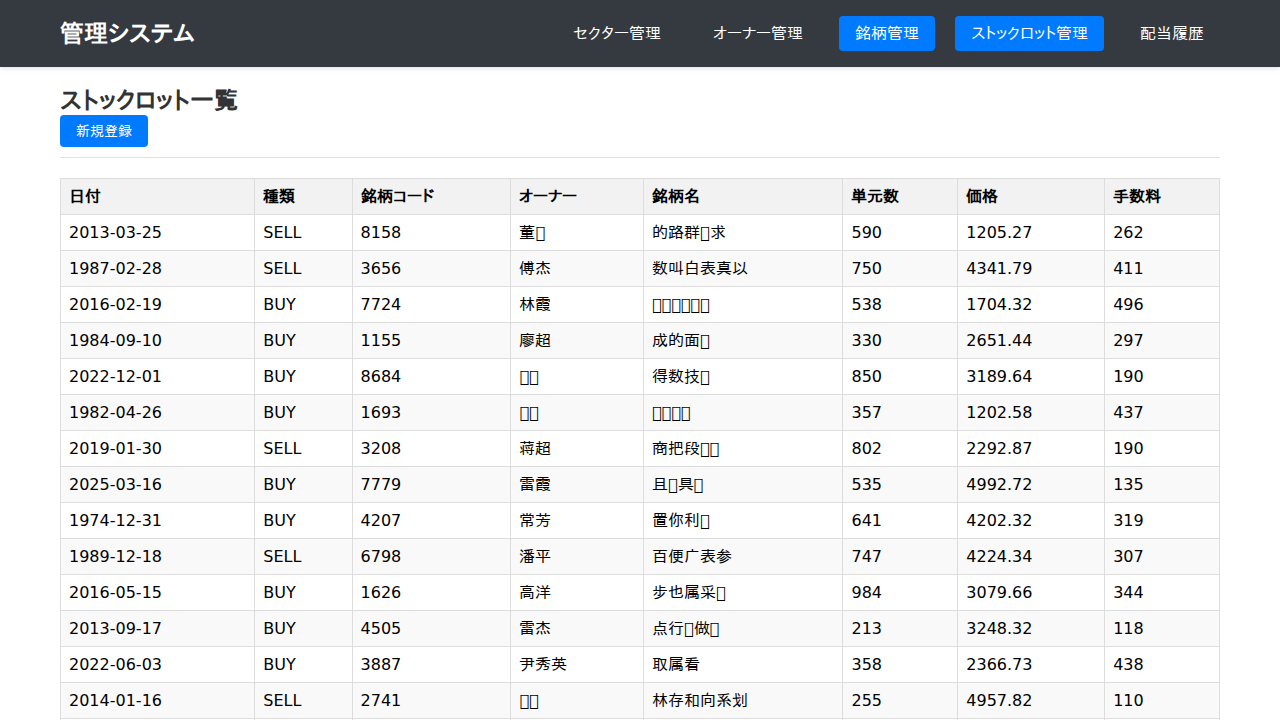
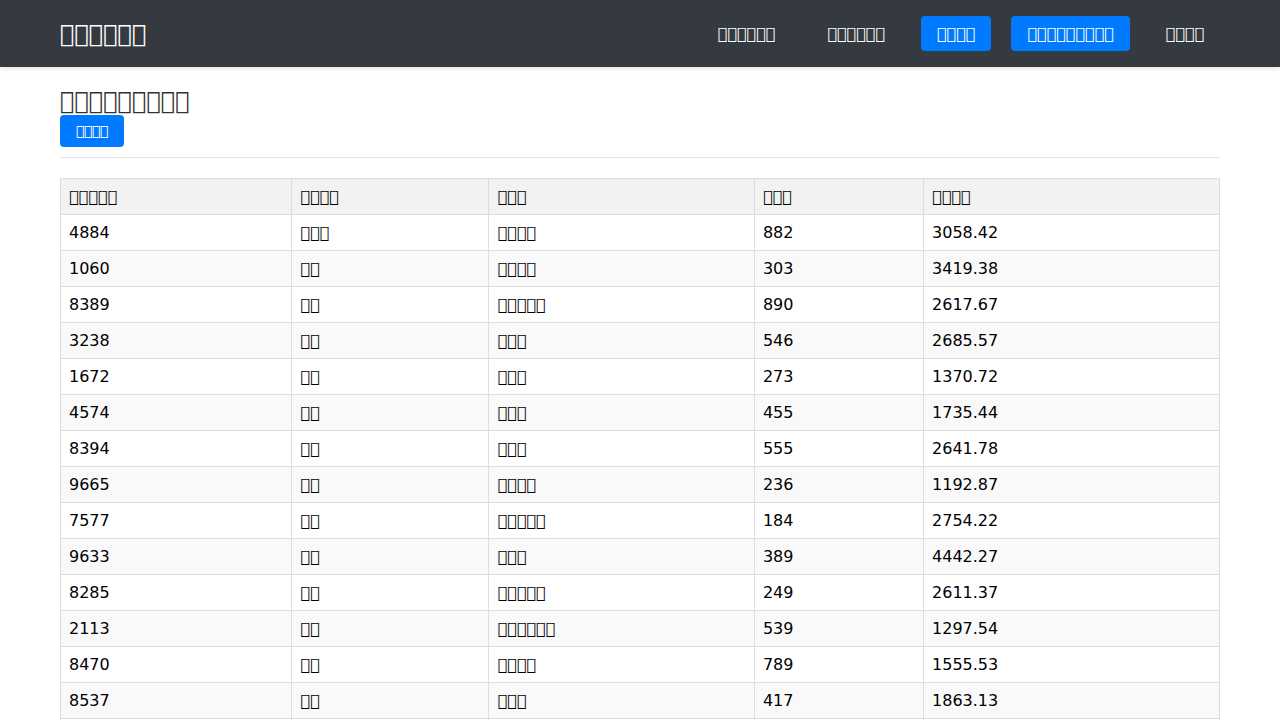
fix: Resolve 500 error and align frontend with backend DTOs
This commit provides a comprehensive fix for the stock lot feature, addressing a 500 error during lot creation and subsequent display issues in the stock lot list.

Backend:
- Resolved a JSON serialization issue by introducing DTOs (`StockLotResponseDto`, `OwnerDto`, `StockDto`) for API responses, preventing the 500 error.
- The `StockLotController` now returns these DTOs instead of JPA entities for all endpoints (`/api/stocklot`, `/api/stocklot/{id}`, and `/api/stocklot/add`).
- Enhanced `StockDto` to include `currentPrice`.
- Updated and expanded `StockLotControllerTest` to validate the new DTO responses.

Frontend:
- Modified `frontend/src/views/stocklot/templates/List.html` to correctly render the data from the `StockLotResponseDto`, fixing the list view.
- Updated `frontend/mock/stocklot.js` to provide mock data that matches the new DTO structure, ensuring frontend tests and development can proceed correctly.

diff --git a/backend/modules/web/src/test/kotlin/com/example/stock/StockLotControllerTest.kt b/backend/modules/web/src/test/kotlin/com/example/stock/StockLotControllerTest.kt
@@ -4,7 +4,6 @@ import com.example.stock.dto.StockLotAddDto
 import com.example.stock.model.Owner
 import com.example.stock.model.Stock
 import com.example.stock.model.StockLot
-import com.example.stock.model.BuyTransaction
 import com.example.stock.service.OwnerService
 import com.example.stock.service.StockLotService
 import com.example.stock.service.StockService
@@ -17,11 +16,13 @@ import org.springframework.boot.test.autoconfigure.web.servlet.WebMvcTest
 import org.springframework.boot.test.mock.mockito.MockBean
 import org.springframework.http.MediaType
 import org.springframework.test.web.servlet.MockMvc
+import org.springframework.test.web.servlet.request.MockMvcRequestBuilders.get
 import org.springframework.test.web.servlet.request.MockMvcRequestBuilders.post
-import org.springframework.test.web.servlet.result.MockMvcResultMatchers.status
 import org.springframework.test.web.servlet.result.MockMvcResultMatchers.jsonPath
+import org.springframework.test.web.servlet.result.MockMvcResultMatchers.status
 import java.math.BigDecimal
 import java.time.LocalDate
+import java.util.Optional
 
 @WebMvcTest(StockLotController::class)
 class StockLotControllerTest {
@@ -40,6 +41,35 @@ class StockLotControllerTest {
 
     @Autowired
     private lateinit var objectMapper: ObjectMapper
+
+    @Test
+    fun `getStockLots should return a list of stock lots`() {
+        val owner = Owner(id = 1, name = "Test Owner")
+        val stock = Stock(id = 1, code = "1234", name = "Test Stock", minimalUnit = 100)
+        val stockLots = listOf(StockLot(id = 1, owner = owner, stock = stock, currentUnit = 10))
+
+        whenever(stockLotService.findAll()).thenReturn(stockLots)
+
+        mockMvc.perform(get("/api/stocklot"))
+            .andExpect(status().isOk)
+            .andExpect(jsonPath("$[0].id").value(1))
+            .andExpect(jsonPath("$[0].owner.name").value("Test Owner"))
+            .andExpect(jsonPath("$[0].stock.name").value("Test Stock"))
+    }
+
+    @Test
+    fun `getStockLot should return a single stock lot`() {
+        val owner = Owner(id = 1, name = "Test Owner")
+        val stock = Stock(id = 1, code = "1234", name = "Test Stock", minimalUnit = 100)
+        val stockLot = StockLot(id = 1, owner = owner, stock = stock, currentUnit = 10)
+
+        whenever(stockLotService.findById(1)).thenReturn(stockLot)
+
+        mockMvc.perform(get("/api/stocklot/1"))
+            .andExpect(status().isOk)
+            .andExpect(jsonPath("$.id").value(1))
+            .andExpect(jsonPath("$.owner.name").value("Test Owner"))
+    }
 
     @Test
     fun `addStockLot should create stock lot and return it`() {
@@ -68,7 +98,9 @@ class StockLotControllerTest {
             .andExpect(status().isOk)
             .andExpect(jsonPath("$.id").value(createdStockLot.id))
             .andExpect(jsonPath("$.owner.id").value(owner.id))
+            .andExpect(jsonPath("$.owner.name").value(owner.name))
             .andExpect(jsonPath("$.stock.id").value(stock.id))
+            .andExpect(jsonPath("$.stock.name").value(stock.name))
             .andExpect(jsonPath("$.currentUnit").value(createdStockLot.currentUnit))
     }
 

diff --git a/backend/modules/web/src/main/kotlin/com/example/stock/StockLotController.kt b/backend/modules/web/src/main/kotlin/com/example/stock/StockLotController.kt
@@ -1,6 +1,9 @@
 package com.example.stock
 
+import com.example.stock.dto.OwnerDto
+import com.example.stock.dto.StockDto
 import com.example.stock.dto.StockLotAddDto
+import com.example.stock.dto.StockLotResponseDto
 import com.example.stock.model.BuyTransaction
 import com.example.stock.model.StockLot
 import com.example.stock.service.OwnerService
@@ -22,8 +25,8 @@ class StockLotController(
     private val stockService: StockService,
 ) {
     @GetMapping
-    fun getStockLots(): List<StockLot> {
-        return stockLotService.findAll()
+    fun getStockLots(): List<StockLotResponseDto> {
+        return stockLotService.findAll().map { it.toResponseDto() }
     }
 
     /**
@@ -32,10 +35,10 @@ class StockLotController(
      * @return 見つかったStockLot。見つからない場合は404 Not Found。
      */
     @GetMapping("/{id}")
-    fun getStockLot(@PathVariable id: Int): ResponseEntity<StockLot> {
+    fun getStockLot(@PathVariable id: Int): ResponseEntity<StockLotResponseDto> {
         val stockLot = stockLotService.findById(id)
         return if (stockLot != null) {
-            ResponseEntity.ok(stockLot)
+            ResponseEntity.ok(stockLot.toResponseDto())
         } else {
             ResponseEntity.notFound().build()
         }
@@ -66,6 +69,15 @@ class StockLotController(
             buyTransaction = buyTransaction,
         )
 
-        return ResponseEntity.ok(createdStockLot)
+        return ResponseEntity.ok(createdStockLot.toResponseDto())
+    }
+
+    private fun StockLot.toResponseDto(): StockLotResponseDto {
+        return StockLotResponseDto(
+            id = this.id,
+            owner = OwnerDto(id = this.owner.id, name = this.owner.name),
+            stock = StockDto(id = this.stock.id, code = this.stock.code, name = this.stock.name, currentPrice = this.stock.currentPrice),
+            currentUnit = this.currentUnit
+        )
     }
 }

diff --git a/frontend/mock/stocklot.js b/frontend/mock/stocklot.js
@@ -5,17 +5,17 @@ import Mock from 'mockjs';
 const stocklots = Mock.mock({
   'list|20-30': [{
     'id|+1': 1,
-    'date': '@date("yyyy-MM-dd")',
-    'type|1': ['BUY', 'SELL'],
-    'stock': {
-      'code': '@string("number", 4)',
-      'name': '@ctitle(3, 6)'
+    owner: {
+      'id|+1': 1,
+      name: '@cname',
     },
-    'owner_name': '@cname',
-    'unit': '@integer(100, 1000)',
-    'price': '@float(1000, 5000, 2, 2)',
-    'fees': '@integer(100, 500)',
-    'lot_id': '@integer(1, 20)'
+    stock: {
+      'id|+1': 1,
+      code: '@string("number", 4)',
+      name: '@ctitle(3, 6)',
+      currentPrice: '@float(1000, 5000, 2, 2)',
+    },
+    'currentUnit': '@integer(100, 1000)',
   }]
 }).list;
 
@@ -28,10 +28,15 @@ export default [
     },
   },
   {
-    url: '/api/stocklot',
+    url: '/api/stocklot/add',
     method: 'post',
     response: ({ body }) => {
-      const newStocklot = { ...body, id: Mock.Random.integer(100, 1000) };
+      const newStocklot = {
+        id: Mock.Random.integer(100, 1000),
+        owner: { id: body.ownerId, name: 'Mock Owner' }, // Assuming a mock owner name
+        stock: { id: body.stockId, name: 'Mock Stock', code: 'MSFT', currentPrice: 450.0 }, // Assuming mock stock details
+        currentUnit: body.unit,
+      };
       stocklots.push(newStocklot);
       return newStocklot;
     }

diff --git a/frontend/src/views/stocklot/templates/List.html b/frontend/src/views/stocklot/templates/List.html
@@ -7,28 +7,20 @@
   <table v-if="stockLots.length > 0" class="common-table">
     <thead>
       <tr>
-        <th>日付</th>
-        <th>種類</th>
         <th>銘柄コード</th>
         <th>オーナー</th>
         <th>銘柄名</th>
         <th>単元数</th>
-        <th>購入価格</th>
         <th>現在価格</th>
-        <th>手数料</th>
       </tr>
     </thead>
     <tbody>
       <tr v-for="lot in stockLots" :key="lot.id">
-        <td>{{ lot.date }}</td>
-        <td>{{ lot.type }}</td>
         <td>{{ lot.stock.code }}</td>
-        <td>{{ lot.owner_name }}</td>
+        <td>{{ lot.owner.name }}</td>
         <td>{{ lot.stock.name }}</td>
-        <td>{{ lot.unit }}</td>
-        <td>{{ lot.price }}</td>
-        <td>{{ lot.stock.price }}</td>
-        <td>{{ lot.fees }}</td>
+        <td>{{ lot.currentUnit }}</td>
+        <td>{{ lot.stock.currentPrice }}</td>
       </tr>
     </tbody>
   </table>

diff --git a/backend/modules/stock/src/main/kotlin/com/example/stock/dto/StockLotResponseDto.kt b/backend/modules/stock/src/main/kotlin/com/example/stock/dto/StockLotResponseDto.kt
@@ -1,0 +1,8 @@
+package com.example.stock.dto
+
+data class StockLotResponseDto(
+    val id: Int,
+    val owner: OwnerDto,
+    val stock: StockDto,
+    val currentUnit: Int
+)

diff --git a/backend/modules/stock/src/main/kotlin/com/example/stock/dto/StockDto.kt b/backend/modules/stock/src/main/kotlin/com/example/stock/dto/StockDto.kt
@@ -1,0 +1,8 @@
+package com.example.stock.dto
+
+data class StockDto(
+    val id: Int,
+    val code: String,
+    val name: String,
+    val currentPrice: Double
+)

diff --git a/backend/modules/stock/src/main/kotlin/com/example/stock/dto/OwnerDto.kt b/backend/modules/stock/src/main/kotlin/com/example/stock/dto/OwnerDto.kt
@@ -1,0 +1,6 @@
+package com.example.stock.dto
+
+data class OwnerDto(
+    val id: Int,
+    val name: String
+)

diff --git a/jules-scratch/verification/verify_stocklot_list.py b/jules-scratch/verification/verify_stocklot_list.py
@@ -1,0 +1,27 @@
+from playwright.sync_api import sync_playwright, expect
+
+def run():
+    with sync_playwright() as p:
+        browser = p.chromium.launch(headless=True)
+        page = browser.new_page()
+
+        # Navigate to the stock lot list page
+        page.goto("http://localhost:5173/stocklot")
+
+        # Check if the main heading is visible
+        expect(page.get_by_role("heading", name="ストックロット一覧")).to_be_visible()
+
+        # Wait for the table to be populated
+        # We can check for a specific table header to ensure the page has loaded
+        expect(page.get_by_role("cell", name="銘柄コード")).to_be_visible()
+        expect(page.get_by_role("cell", name="オーナー")).to_be_visible()
+        expect(page.get_by_role("cell", name="単元数")).to_be_visible()
+        expect(page.get_by_role("cell", name="現在価格")).to_be_visible()
+
+        # Take a screenshot of the list page
+        page.screenshot(path="/app/jules-scratch/verification/stocklot_list_page.png")
+
+        browser.close()
+
+if __name__ == "__main__":
+    run()
